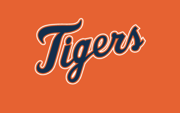
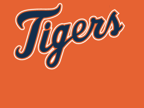
New Aplite Images
-Replaced images with images from old version

Changed region(s): [[0.0833, 0.0278, 0.8889, 0.75]]

diff --git a/src/main.c b/src/main.c
@@ -746,7 +746,11 @@ static void window_load(Window *window) {
   #ifdef PBL_ROUND
     s_team_logo_layer = bitmap_layer_create(GRect(0, 0, bounds.size.w, 113));
   #else
-    s_team_logo_layer = bitmap_layer_create(GRect(-22, -6, bounds.size.w + 22, 119));
+    #ifdef PBL_COLOR
+      s_team_logo_layer = bitmap_layer_create(GRect(-22, -6, bounds.size.w + 22, 119));
+    #else
+      s_team_logo_layer = bitmap_layer_create(GRect(0, 0, 144, 108));
+    #endif
   #endif
   bitmap_layer_set_compositing_mode(s_team_logo_layer, GCompOpSet);
   
